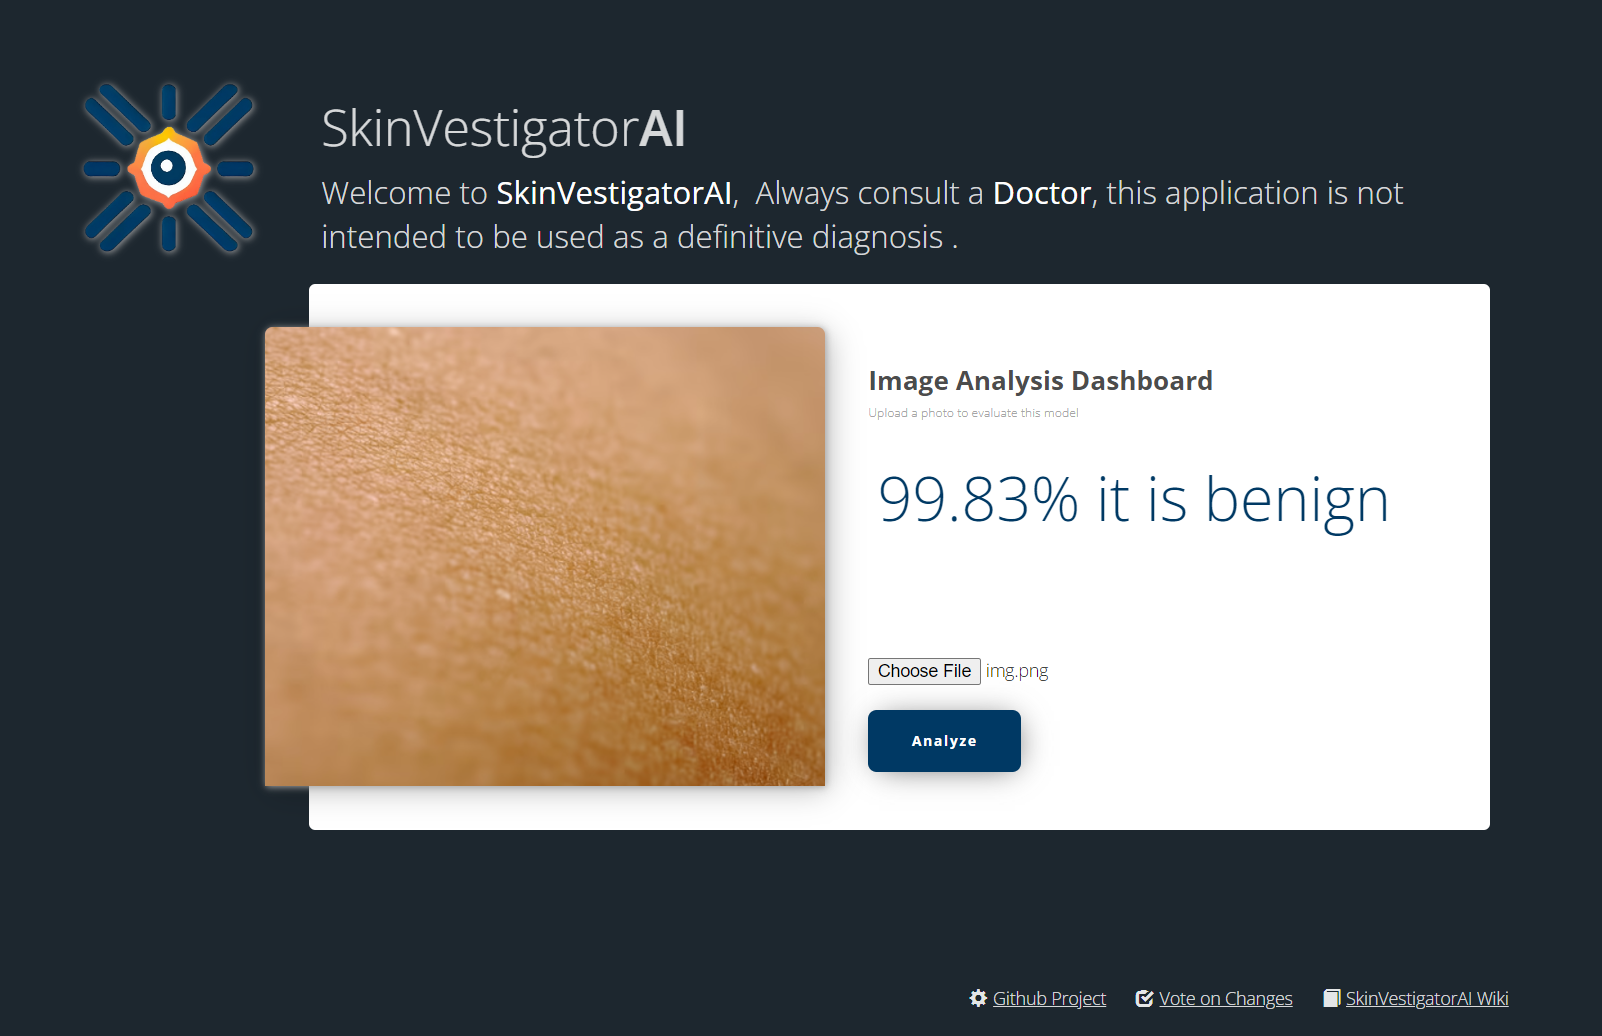
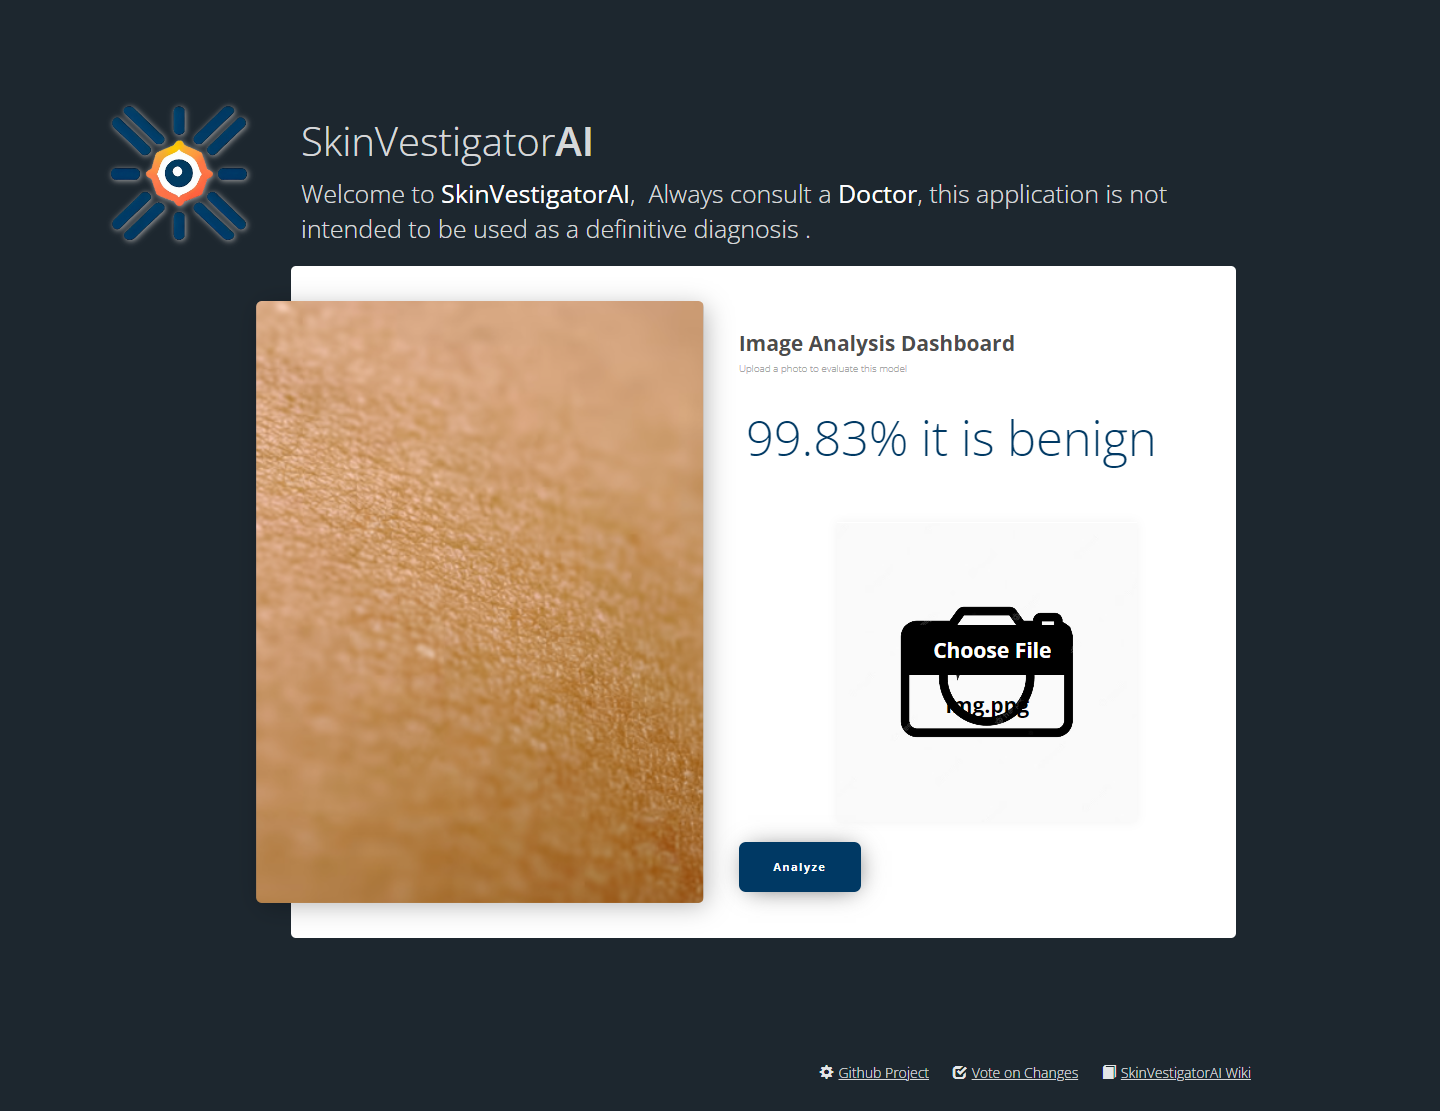
M-1.5 - :sparkles: adding a loading text after the user clicks analyse :memo: updating screenshot.png and readme

Changed region(s): [[0.0312, 0.0618, 0.9375, 0.8649], [0.5625, 0.9575, 0.9375, 0.9884]]

diff --git a/README.md b/README.md
@@ -16,8 +16,8 @@
 
 [![Demo](https://img.shields.io/badge/-Live_Demo-black?style=for-the-badge&logo=render)](https://skinvestigator.onrender.com/) 
 
-Please note that the application enters a dormant state when not in use to conserve resources. This means it might take a moment to warm up when you first access the site. Rest assured, any initial slow loading is completely normal and the app will run smoothly after this brief wake-up period. Your patience is appreciated!
-
+<sub><i>Please note that the application enters a dormant state when not in use to conserve resources. This means it might take a moment to warm up when you first access the site. Any initial slow down will ease after a moment. Thank you for your patience.
+</i></sub>
 
 ## Table of Contents
 - [Getting Started](#getting-started)
